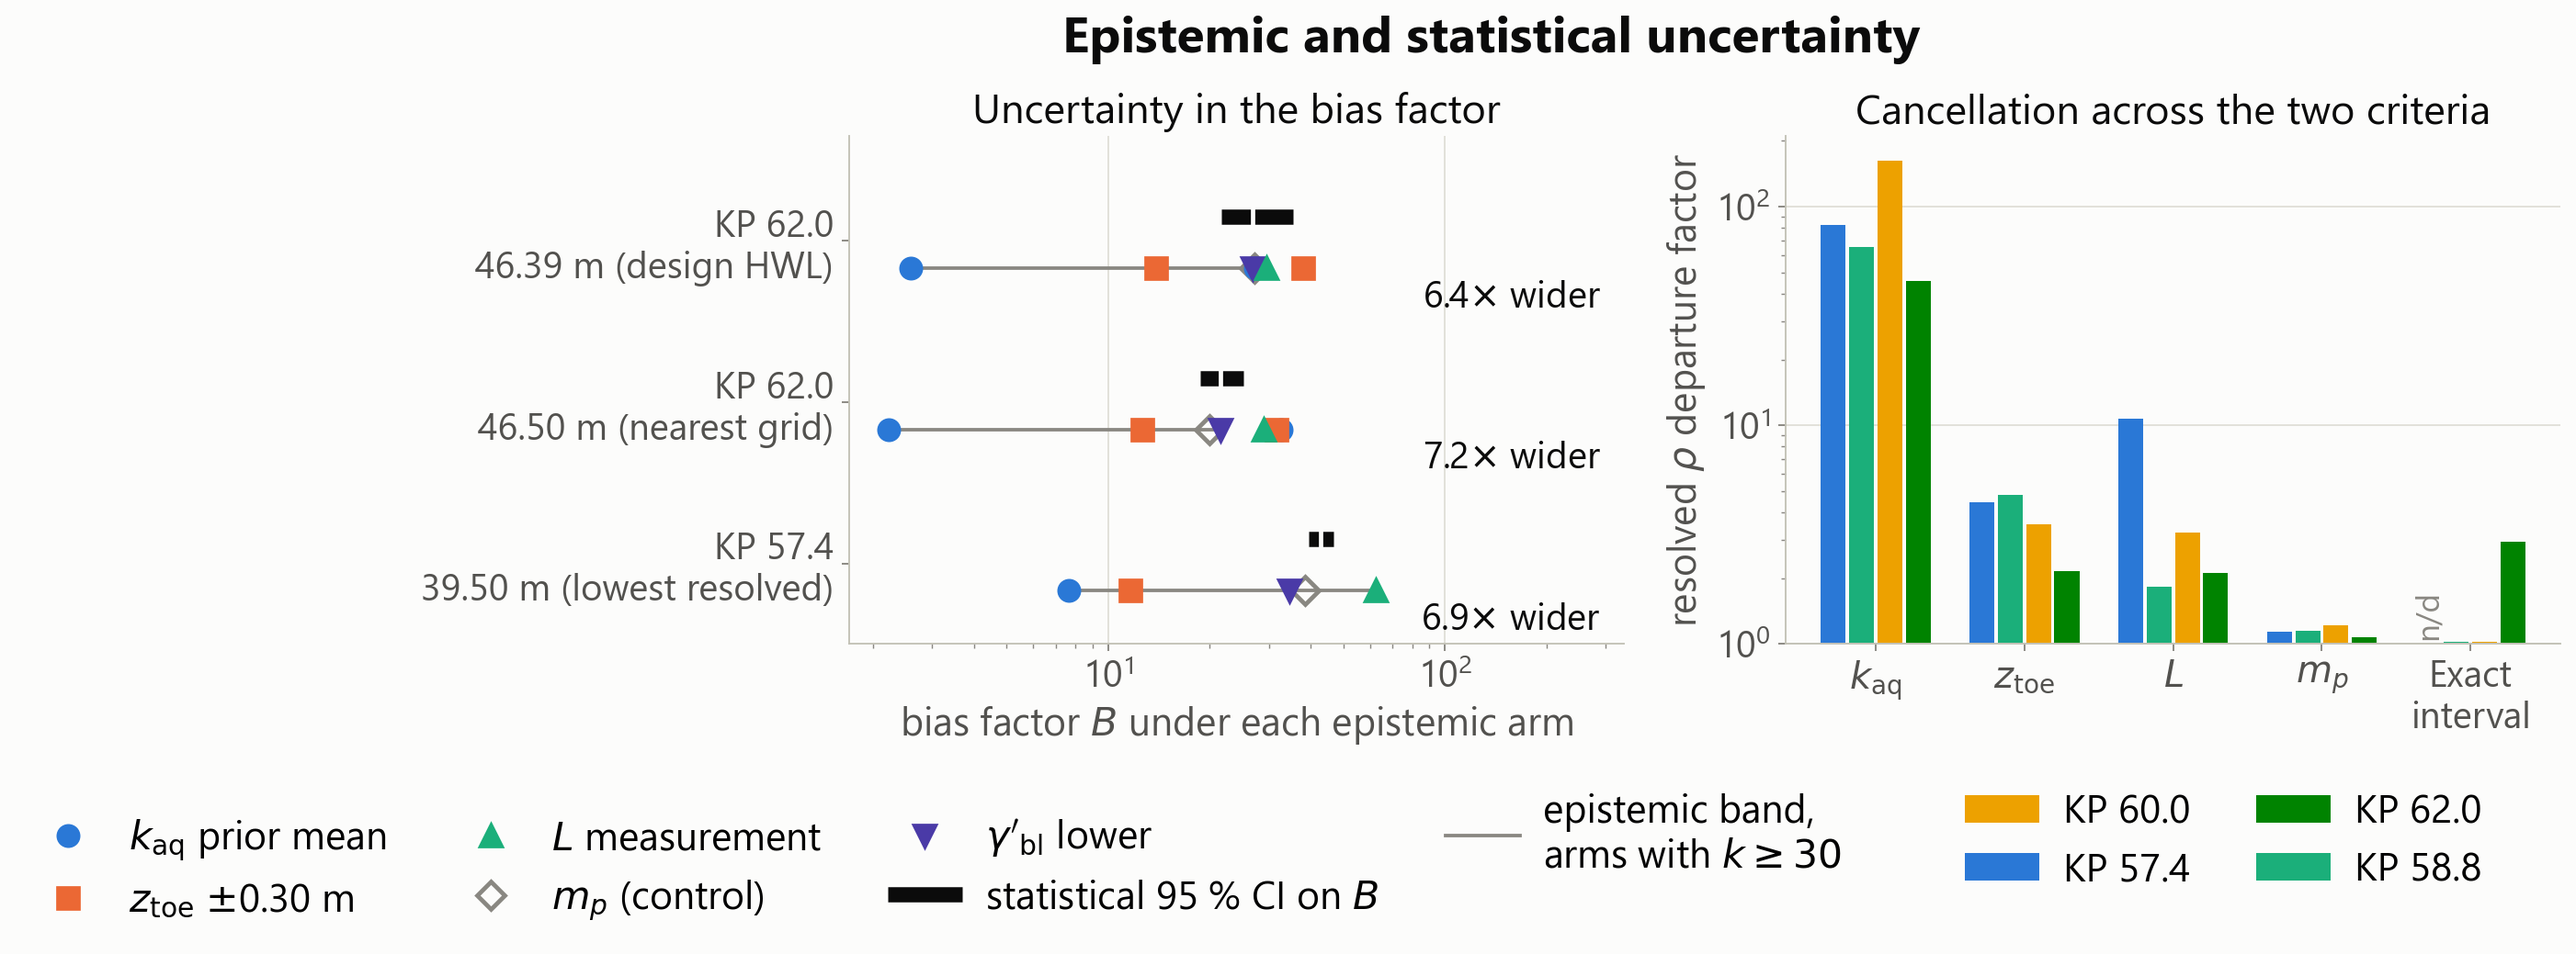
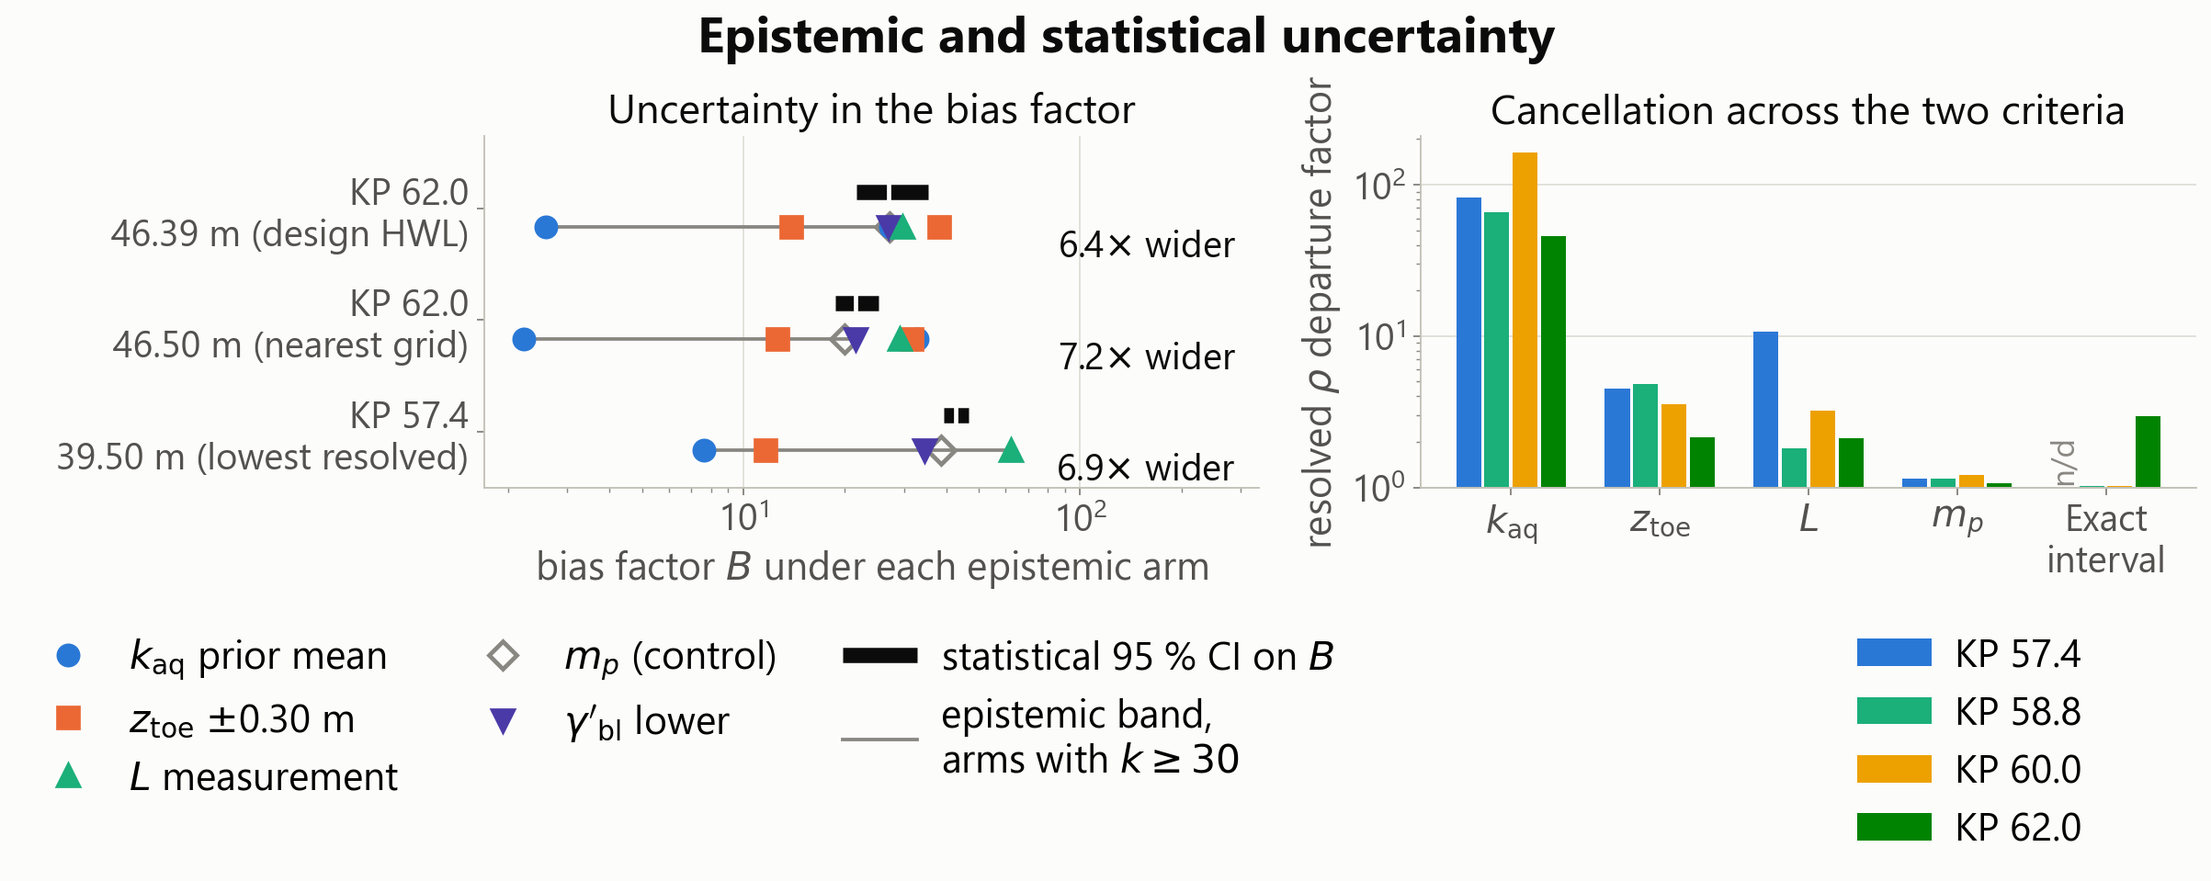
Take the foreshore key back into its panel, and split one legend by line
Three figures change on the author's ruling; the other nine are
approved and go into the report as they stand.

The foreshore figure returns to the drawing it was restored to, legend
and all, with the house title and a smaller easing of the gap between
its panels than was made last time. Moving its eight-entry key into the
caption had taken the smallest text in the report from three points to
seven and left the drawing untouched, and it was still the wrong change,
because it was not the change asked for. The key is back in the panel
and the caption has given its sentence back. A caption is often the
better home for a figure's key; whether to move it there is not a
decision to take inside an instruction to change one thing.

The epistemic figure keeps the arrangement it had, with two differences.
Its seven bracket entries stay three lines, its four section entries
stand as four lines beneath the right panel, and the two groups move
further apart, each under the panel it belongs to.

The two superseded-estimate labels on the resolved design-level gap are
lowered again, so that the bottom line of each sits level with the
marker it is connected to. The two labels overlap in height, so they
were separated by column against their own markers to measure it: both
sat six and a half pixels high, which is three points at this figure's
resolution, and the offset is corrected by that.

diff --git a/scripts/foreshore_exhaustion_study.py b/scripts/foreshore_exhaustion_study.py
@@ -398,22 +398,7 @@ def _make_figure(records: list[dict[str, Any]], out_path: Path) -> None:
     import _figstyle as fs
     import matplotlib.pyplot as plt
 
-    # Every size here is authored so that it prints at or above the 7 pt floor.
-    # The figure is 11.5 in wide and placed at 0.85 of the text block, so it is
-    # reduced by about 0.50 on the page and the floor is 14.3 authored points.
-    # The canvas is taller than it was to give that larger type its room; height
-    # does not enter the reduction, only width does.
-    plt.rcParams.update(
-        {
-            "font.size": 14.3,
-            "axes.titlesize": 14.3,
-            "axes.labelsize": 14.3,
-            "legend.fontsize": 14.3,
-            "xtick.labelsize": 14.3,
-            "ytick.labelsize": 14.3,
-        }
-    )
-    fig, (ax_a, ax_b) = plt.subplots(1, 2, figsize=(11.5, 6.6))
+    fig, (ax_a, ax_b) = plt.subplots(1, 2, figsize=(11.5, 4.28))
 
     widths = np.asarray([r["foreshore_width_m"] for r in records], dtype=float)
     order = np.argsort(widths)
@@ -440,6 +425,10 @@ def _make_figure(records: list[dict[str, Any]], out_path: Path) -> None:
                 color=color,
                 markersize=5,
                 linewidth=1.2,
+                label=(
+                    f"{RATE_DISPLAY_NAMES.get(name, name)} ({rate:g} m/h), "
+                    f"{CASE_DISPLAY_NAMES[case]}"
+                ),
             )
     # Eight series cross this panel, so every piece of text in it sits on a
     # plate: the exhaustion line and the section names were being ruled
@@ -453,15 +442,11 @@ def _make_figure(records: list[dict[str, Any]], out_path: Path) -> None:
         color="crimson",
         va="bottom",
         ha="right",
-        fontsize=14.3,
+        fontsize=8,
         transform=ax_a.get_yaxis_transform(),
         bbox=plate,
         zorder=6,
     )
-    # KP 57.4 and KP 58.8 are close in bed width and closer still in exposure
-    # ratio, so a single common offset ran the two names together. Each is
-    # placed on its own side of its point instead.
-    label_offsets = {"KP57.4": (2, 9), "KP58.8": (2, -16)}
     for record in records:
         ratio = record["event_2016"]["thresholds"]["z_mob"]["rates"]["central"][
             "exposure_ratio"
@@ -470,8 +455,8 @@ def _make_figure(records: list[dict[str, Any]], out_path: Path) -> None:
             record["section"],
             (record["foreshore_width_m"], ratio),
             textcoords="offset points",
-            xytext=label_offsets.get(record["section"], (4, 5)),
-            fontsize=14.3,
+            xytext=(4, 5),
+            fontsize=8,
             bbox=plate,
             zorder=6,
         )
@@ -490,10 +475,7 @@ def _make_figure(records: list[dict[str, Any]], out_path: Path) -> None:
     ax_a.set_ylabel(r"exposure ratio  $v_\mathrm{lat}\,T_\mathrm{mob} / B_f$  [-]")
     ax_a.set_title("(a) Exposure ratio across the retreat-rate bracket")
     ax_a.grid(alpha=0.3, which="both")
-    # The eight-entry key that used to sit here printed at 3.1 pt, the smallest
-    # text in the thesis. It was four assumed rates by two loading cases, and
-    # the caption already named the rates; it now carries the whole key, which
-    # is where a reader can actually read it. Nothing else in the panel moved.
+    ax_a.legend(fontsize=6.2, ncol=2, loc="lower left")
 
     for record in records:
         levels = record["conditioning_grid"]["levels"]
@@ -529,9 +511,9 @@ def _make_figure(records: list[dict[str, Any]], out_path: Path) -> None:
     # request was never withdrawn, so it survives the restore.
     ax_b.text(
         0.98,
-        lo * 1.35,
+        3.0 * (lo * hi) ** 0.5,
         "assumed retreat-rate bracket",
-        fontsize=14.3,
+        fontsize=8,
         color="0.25",
         va="center",
         ha="right",
@@ -543,9 +525,7 @@ def _make_figure(records: list[dict[str, Any]], out_path: Path) -> None:
     ax_b.set_ylabel(r"critical retreat rate  $v^{*} = B_f / T_\mathrm{mob}$  [m/h]")
     ax_b.set_title("(b) Rate needed to exhaust the bed ($\\star$ = 2016 event)")
     ax_b.grid(alpha=0.3, which="both")
-    # Four short entries, one per surveyed section: this key stays in the
-    # panel, at the same printed size as everything else.
-    ax_b.legend(loc="upper right")
+    ax_b.legend(fontsize=7.5, loc="upper right")
 
     # This used to be a figure-level text rather than a suptitle, because
     # ``tight_layout`` reserves a band for a suptitle several times the
@@ -553,12 +533,12 @@ def _make_figure(records: list[dict[str, Any]], out_path: Path) -> None:
     # panels. ``layout`` measures the panels once they are placed and sets
     # the gap in inches instead, so the title can be a real one. The
     # horizontal padding still keeps the right panel's y-axis label off the
-    # left panel's frame; it is cut from 4.5 to 3.0 at the author's request
-    # to close the gap between the two panels, which is the smallest value
-    # that leaves that clearance.
+    # left panel's frame. It is cut from 4.5 to 4.0: 3.0 was tried and the
+    # author asked for less of a reduction than that, so this is the smaller
+    # step and nothing else about the drawing moves with it.
     scale = fs.scale_for(11.5, 0.85)
     fs.title(fig, "Foreshore-exhaustion screening indicator", scale=scale)
-    fig.tight_layout(w_pad=3.0)
+    fig.tight_layout(w_pad=4.0)
     fs.layout(fig, scale=scale)
     out_path.parent.mkdir(parents=True, exist_ok=True)
     fig.savefig(out_path, dpi=160, bbox_inches="tight")

diff --git a/scripts/hwl_bias_resolution.py b/scripts/hwl_bias_resolution.py
@@ -2143,13 +2143,15 @@ def figure_epistemic_vs_statistical(evidence: dict) -> Path:
     # the section hues belong to the right panel alone, and read as part of
     # the left panel's bracket key when the two are run together. The same
     # arrangement is already accepted for 6.12.
+    # Seven entries over three columns, which is the three lines the
+    # consolidated legend gave them.
     left_handles = marker_handles + list(existing)
     left_legend = fig.legend(
         left_handles,
         [h.get_label() for h in left_handles],
         loc="upper center",
         bbox_to_anchor=(0.5, 0.0),
-        ncol=4,
+        ncol=3,
         frameon=False,
         fontsize=figstyle.pt("legend", scale),
         handlelength=1.9,
@@ -2157,11 +2159,10 @@ def figure_epistemic_vs_statistical(evidence: dict) -> Path:
         columnspacing=1.7,
         borderaxespad=0.0,
     )
-    # matplotlib fills a legend column by column, so this order puts KP 60.0
-    # and KP 62.0 on the upper row and KP 57.4 and KP 58.8 beneath them, which
-    # is the two-by-two block the author asked for.
+    # The four sections stand as four lines, in the ascending order their bars
+    # are drawn in.
     by_label = {h.get_label(): h for h in section_handles}
-    right_order = ["KP 60.0", "KP 57.4", "KP 62.0", "KP 58.8"]
+    right_order = ["KP 57.4", "KP 58.8", "KP 60.0", "KP 62.0"]
     right_handles = [by_label[k] for k in right_order if k in by_label]
     if len(right_handles) != len(section_handles):  # an unexpected label set
         right_handles = list(section_handles)
@@ -2170,7 +2171,7 @@ def figure_epistemic_vs_statistical(evidence: dict) -> Path:
         [h.get_label() for h in right_handles],
         loc="upper center",
         bbox_to_anchor=(0.5, 0.0),
-        ncol=2,
+        ncol=1,
         frameon=False,
         fontsize=figstyle.pt("legend", scale),
         handlelength=1.9,
@@ -2179,7 +2180,8 @@ def figure_epistemic_vs_statistical(evidence: dict) -> Path:
         borderaxespad=0.0,
     )
     figstyle.title(fig, "Epistemic and statistical uncertainty", scale=scale)
-    figstyle.layout(fig, scale=scale, legend_rows=2)
+    # The taller of the two blocks is the four-line section key.
+    figstyle.layout(fig, scale=scale, legend_rows=4)
     # ``layout`` places the first legend against the measured panels; both are
     # then set on that same measured baseline, each under its own panel and
     # nudged outwards as asked.
@@ -2190,11 +2192,13 @@ def figure_epistemic_vs_statistical(evidence: dict) -> Path:
         ax_i.get_tightbbox(renderer).transformed(inv).y0 for ax_i in (ax, ax2)
     )
     gap = (figstyle.pt("legend", scale) / 72.0) * 0.75 / float(fig.get_size_inches()[1])
+    # Further apart than the first attempt, as asked: the bracket key sits
+    # under the left panel and the section key under the right one.
     left_legend.set_bbox_to_anchor(
-        (0.25, panel_bottom - gap), transform=fig.transFigure
+        (0.30, panel_bottom - gap), transform=fig.transFigure
     )
     right_legend.set_bbox_to_anchor(
-        (0.83, panel_bottom - gap), transform=fig.transFigure
+        (0.88, panel_bottom - gap), transform=fig.transFigure
     )
     ax2.grid(axis="x", visible=False)
     # The two-line note that used to hang below the panels now lives in the

diff --git a/scripts/rq1_beta_analysis.py b/scripts/rq1_beta_analysis.py
@@ -1914,10 +1914,12 @@ def figure_hwl_dbeta_resolved(record: dict[str, Any]) -> Path:
             rf"$\Delta\beta = {row['delta_beta']:.2f}$",
             (row["level_m_msl"], row["delta_beta"]),
             textcoords="offset points",
-            # Lowered from (8, 12) at the author's request: the upper label
-            # was running into the anchor block above it. The offsets keep
-            # each label clear of its own 6 pt marker.
-            xytext=((-8, 3) if i == 0 else (10, 6)),
+            # Lowered twice at the author's request. The second lowering puts
+            # the label's bottom line level with the marker it belongs to:
+            # the text is anchored by the bottom of its box, and the last
+            # line's centre sits about 0.35 of the type size above that, so
+            # the offset is that much below the marker.
+            xytext=((-8, -8.2) if i == 0 else (10, -8.2)),
             fontsize=figstyle.pt("small", scale),
             color=figstyle.RED,
             ha="right" if i == 0 else "left",

diff --git a/docs/project_log.md b/docs/project_log.md
@@ -338,3 +338,35 @@ mechanics are in `docs/conventions.md`.
   rules on two entries and serialises its own DOM, which is the tree a save
   writes: both notes come back inside their textareas, both rulings come back on
   their data attributes, and the ten unruled entries stay empty.
+
+  **The round-3 ruling, 2026-09-11.** Nine of the twelve approved, taking the
+  campaign to 60 of 63; the nine are copied into the thesis. Three changed:
+  5.8, 6.5 and 8.1.
+
+  **8.1 reverses the preceding entry's own finding, and that is worth recording
+  rather than tidying away.** The caption-as-key move took the smallest text in
+  the report from 3.1 pt to 7.0 and left the drawing untouched, and it is still
+  the wrong change, because it was not the change asked for: the instruction had
+  been to restore the drawing and apply the house title alone. The key is back in
+  the panel, the caption has given its sentence back, and the figure prints at
+  3.1 pt again by the author's decision. **The generalisable part survives and
+  the application of it does not.** A caption is often the better home for a
+  figure's key; whether to move it there is not a drafter's call to make inside
+  an instruction that said to change one thing. The floor is now met at seven of
+  the twelve reviewed figures, and every figure that misses it misses it by a
+  recorded decision.
+
+  Two smaller lessons from the same ruling. **A gap reduction has a magnitude,
+  not just a direction**: 4.5 to 3.0 was read as too much and 4.0 was wanted, so
+  "slightly" is worth quantifying back to the author rather than guessed at.
+  And **an arrangement request is about lines, not columns**: 5.8's legend was
+  asked for as three lines on the left and four on the right, which is a
+  statement about how many rows each block occupies, and the way to get it is to
+  choose the column count that produces those rows.
+
+  **6.5's labels were aligned by measurement, not by eye.** The request was that
+  each label's bottom line sit at the same height as the marker it is connected
+  to. The two labels overlap in height, so a row-band split of the red ink merges
+  them; separating them by column against their own markers showed both sitting
+  6.5 px high at the first attempt, which is 3.2 pt at this figure's resolution,
+  and the offset was corrected by exactly that.

diff --git a/docs/conventions.md b/docs/conventions.md
@@ -379,6 +379,27 @@ this and the earlier tight-bounding-box finding say the same thing: text that
 must be small to fit inside a figure is usually text the caption can hold at
 caption size, where it is read once rather than squinted at.
 
+**The round-3 ruling, 2026-09-11: 60 of 63 approved, three changed.** Nine of
+the twelve reviewed figures were approved, taking the approved set to 60, and
+they are in the report. Three came back: 5.8, 6.5 and 8.1.
+
+**The 8.1 ruling reverses this section's own preceding paragraph, and the
+reversal is the record.** The author asked for the restored drawing back, legend
+included, with the house title and a smaller reduction of the panel gap than had
+been made, and for nothing else to change. So the eight-entry key returns to the
+panel, the caption gives its sentence back, and the figure prints its smallest
+text at 3.1 pt again. **The caption-as-key move was a sound piece of typography
+and it was still the wrong change**, because it was not the change asked for.
+The 7 pt floor is therefore met at seven of the twelve reviewed figures rather
+than ten, and where it is not met the reason is now recorded as an authorial
+decision in every case. A house rule is a default, and the author overrides it.
+
+5.8 keeps the round-2 arrangement with two differences only: its seven bracket
+entries stay three lines, its four section entries stand as four lines under the
+right panel, and the two groups move further apart. 6.5's two superseded-estimate
+labels are lowered again so that each label's bottom line sits level with the
+marker it belongs to, measured on the render rather than judged by eye.
+
 Standing exceptions: 6.5 keeps its small upper-left legend, 6.12 uses separate
 legends beneath its two panels, 5.7 retains its compact printed-point table with
 a 7 pt floor, and H.3/H.4 keep the shared legend below because their top-right
